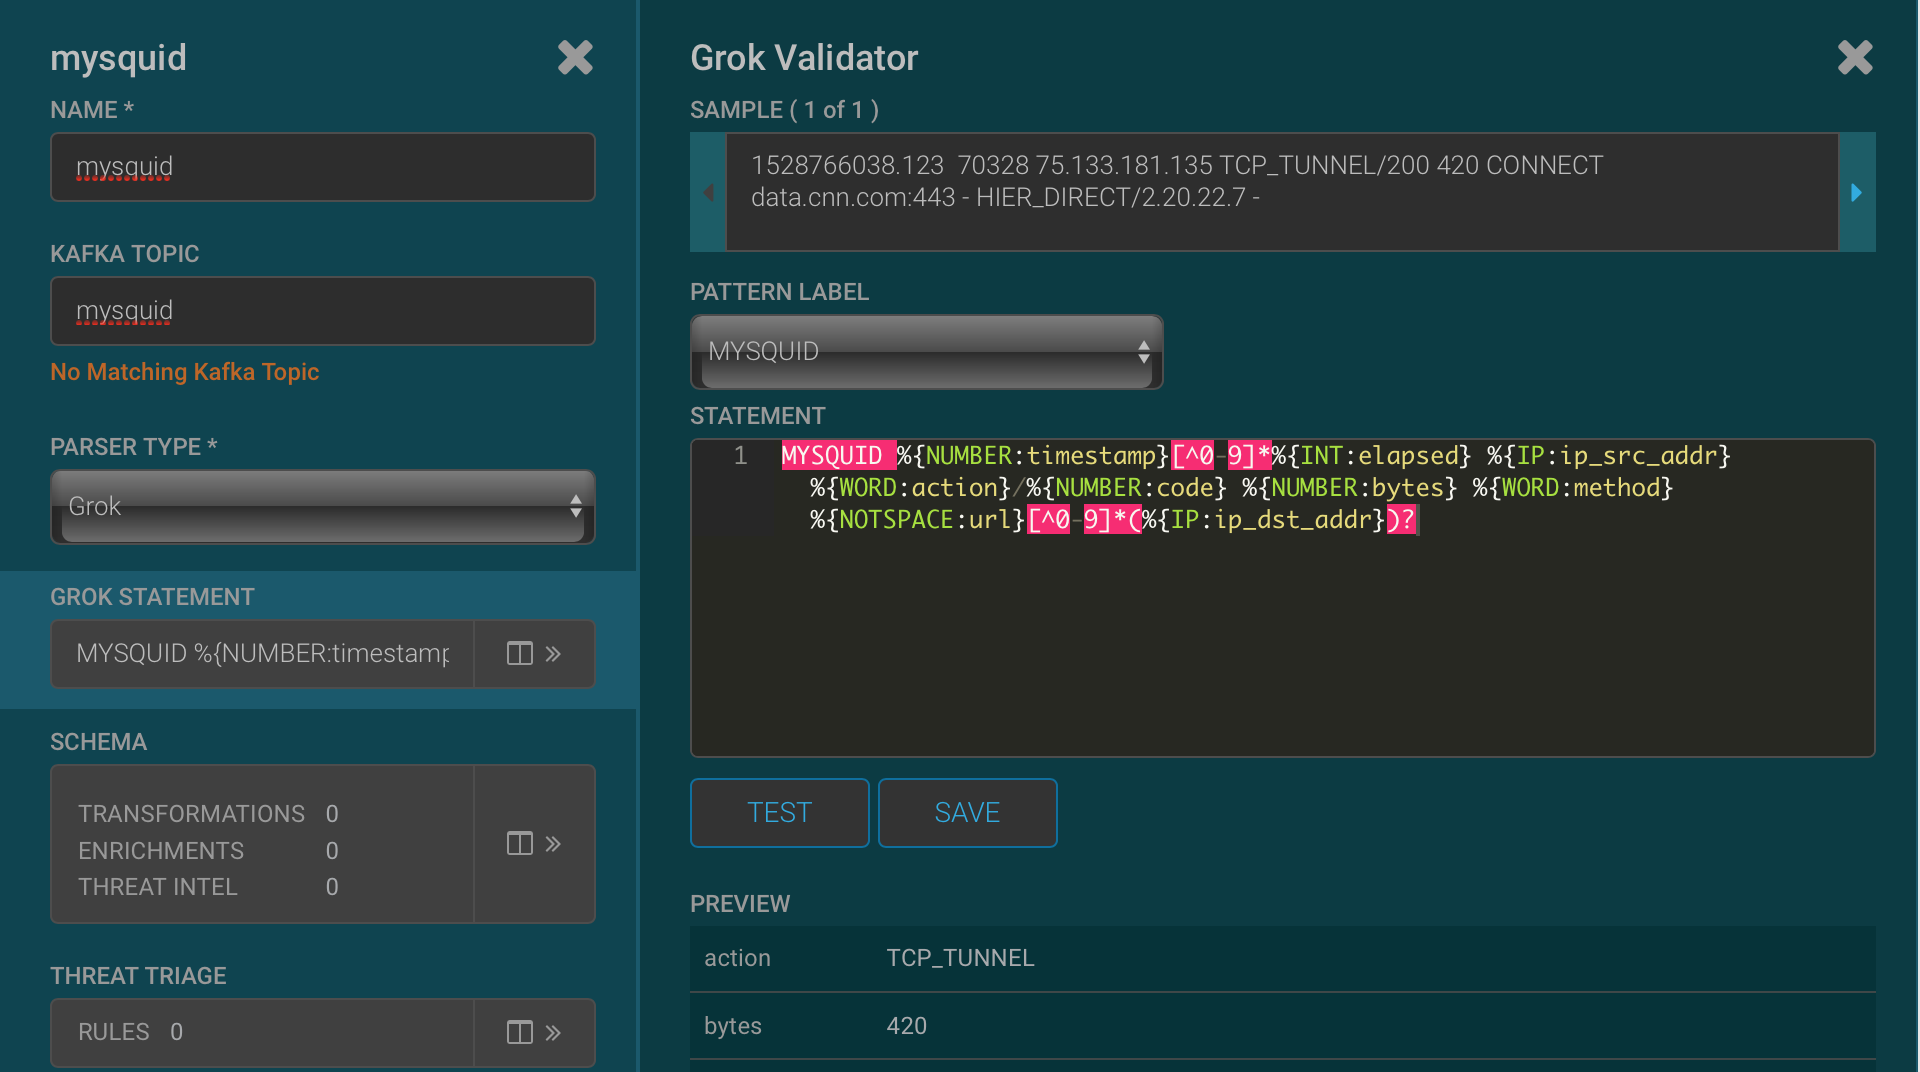
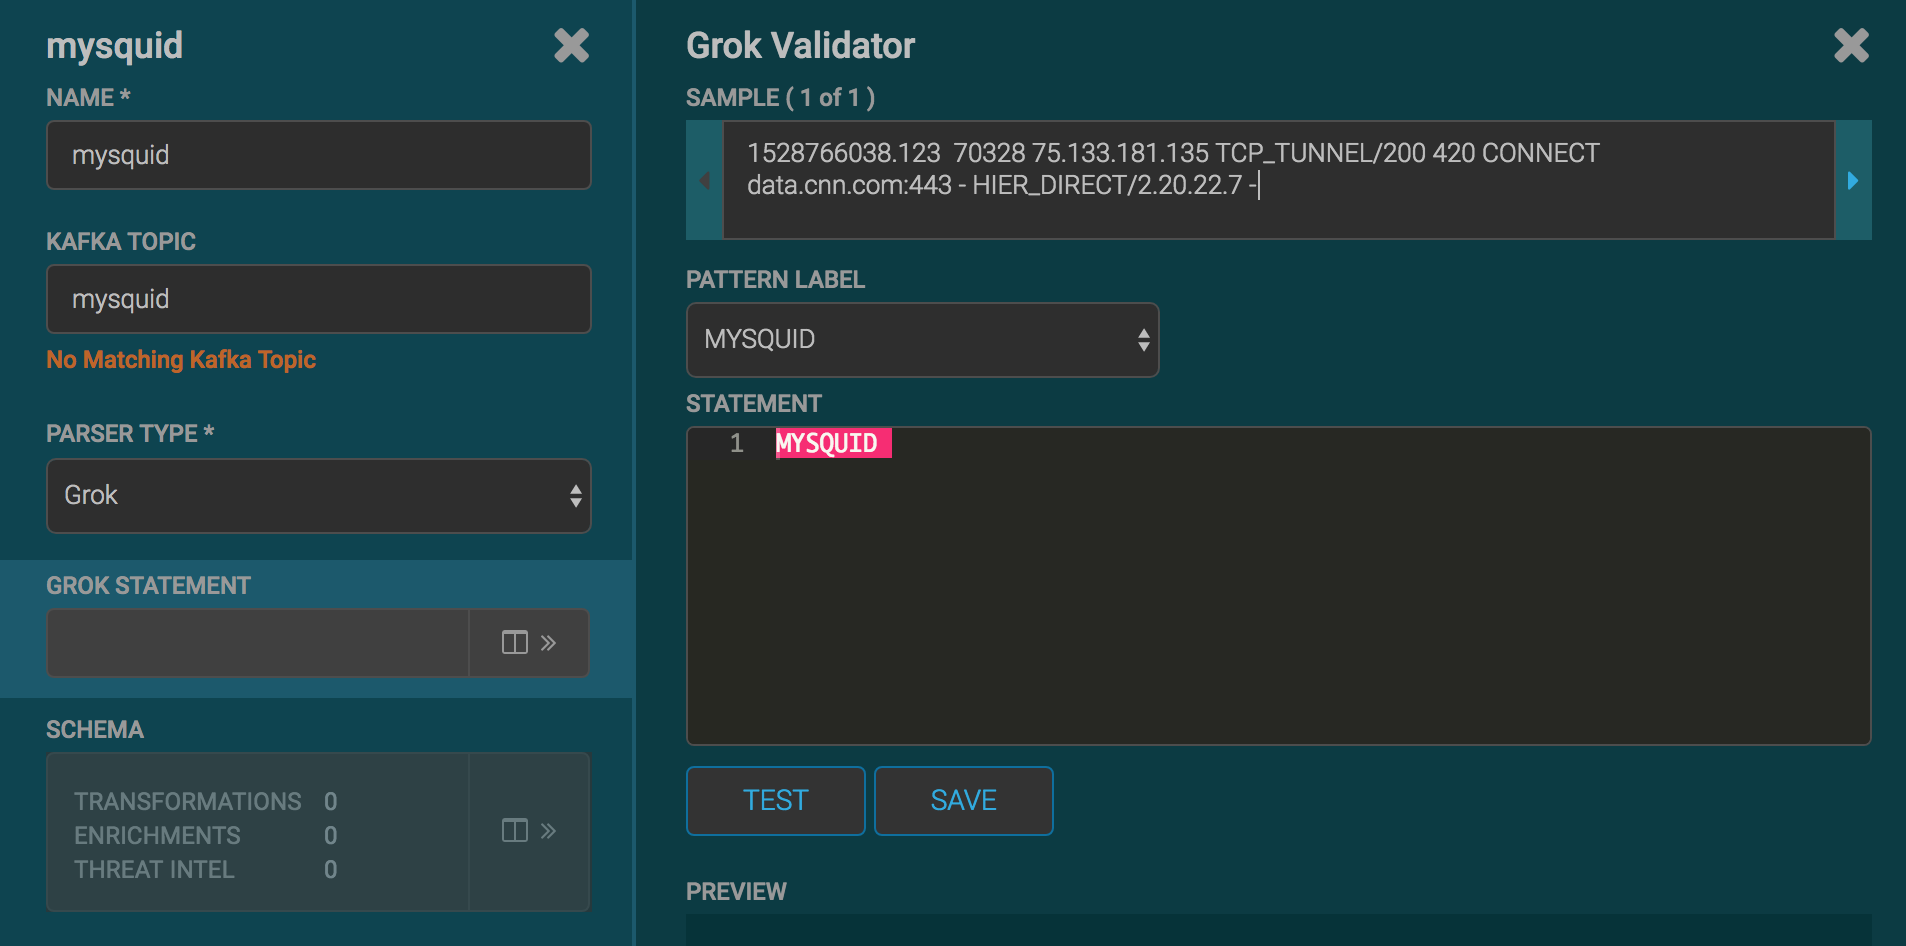
add solr to parsing lab change order of grok setup steps remove unused build_single scripts copy solr templates to the hcp schema directory in build_single

diff --git a/02_ParsingSquid/README.md b/02_ParsingSquid/README.md
@@ -54,15 +54,7 @@ Now we will build a mysquid sensor from scratch using a grok parser.
 Don't worry if you see the "No Matching Kafka Topic", the Kafka Topic will be created automatically on save.  
 <img src="images/mysquid_create_sensor.png" width="35%" height="35%" title="Create My Squid Sensor">
 
-4. Click to expand the Grok Statement.   Copy and paste the grok expression below to the right of the MYSQUID grok expression name:
-
-```
-%{NUMBER:timestamp}[^0-9]*%{INT:elapsed} %{IP:ip_src_addr} %{WORD:action}/%{NUMBER:code} %{NUMBER:bytes} %{WORD:method} %{NOTSPACE:url}[^0-9]*(%{IP:ip_dst_addr})?
-```
-![My Squid Sensor](images/mysquid_grok.png)
-
-
-5. Paste the sample squid raw log entry below into the Sample field and click Test. (If the Test button doesn't become active after the paste, make sure you focus on the STATEMENT field once). The Preview section will update with the fields parsed from the raw log.
+5. Click to expand the Grok Statement.  Paste the sample squid raw log entry below into the Sample field. 
 
 ```
 1528766038.123  70328 75.133.181.135 TCP_TUNNEL/200 420 CONNECT data.cnn.com:443 - HIER_DIRECT/2.20.22.7 -
@@ -70,8 +62,19 @@ Don't worry if you see the "No Matching Kafka Topic", the Kafka Topic will be cr
 
 ![My Squid With Sample](images/mysquid_grok_sample.png)
 
+4. Copy and paste the grok expression below to the right of the MYSQUID grok expression name:
+
+```
+%{NUMBER:timestamp}[^0-9]*%{INT:elapsed} %{IP:ip_src_addr} %{WORD:action}/%{NUMBER:code} %{NUMBER:bytes} %{WORD:method} %{NOTSPACE:url}[^0-9]*(%{IP:ip_dst_addr})?
+```
+
+5. Press the Test button. The Preview section will update with the fields parsed from the raw log.  If there is an error and the preview does not appear, verify the sample and grok expression field values.   Adjust the sample or grok expression field values so the preview appears.
+
+![My Squid Sensor](images/mysquid_grok.png)
+
 6. Click Save.
-7. Verify that sensor name and topic name are "mysquid" with NO extra spaces or special characters.  Click Save on the mysquid sensor.
+7. Verify that sensor name and topic name are "mysquid" with NO extra spaces or special characters.  
+7. Click Save on the mysquid sensor.
 7. The mysquid sensor appears in the management UI.  Click on the pencil icon to edit the mysquid sensor.  The mysquid configuration opens.
 9. Scroll down to the Parser Config section.   
 10.  In the enter field point, enter timestampField.
@@ -81,7 +84,40 @@ Don't worry if you see the "No Matching Kafka Topic", the Kafka Topic will be cr
 
 13. Click the Save button.
 ## Installing the mysquid index template
-After events are enriched and triaged, metron stores the events in an index.  The index template specifies how to interpret the metron events and how to index strings using either a keyword or full text search.
+After events are enriched and triaged, metron stores the events in an index.  The index template specifies how to interpret the metron events and how to index strings using either a keyword or full text search.  
+
+Determine the index you are using (Solr or Elastic Search) and follow the instrutions in the corresponding section below.
+
+### Creating a Collection in Solr
+1. SSH into the metron host.   If you are logging in from windows, ssh using putty.
+
+```
+ssh -i <pem file> centos@mobius.local
+```
+2. Run the create_solr_collection command to create a new collection and install the collection schema.  The schema defines the types and search capabilities of each field in the events stored in the index.  
+
+```
+./create_solr_colection.sh mysquid
+``` 
+4. To see the definition of the schema use the more command on the metron host.  Press enter to advance one line.  Press space to advance one page.  To exit the more command enter 'q':
+
+```
+more /usr/hcp/current/metron/config/schema/mysquid/schema.xml
+``` 
+
+5. The solrconfig.xml file defines the configuration of the index.  The solr config does not vary by the index content.  When creating a new index, use the metron solrconfig.xml as is.
+
+```
+more /usr/hcp/current/metron/config/schema/mysquid/solrconfig.xml
+``` 
+
+3. In the browser, open solr collections interface to see the mysquid collection:
+http://mobius.local.localdomain:8983/solr/#/~collections
+ 
+<img src="images/solr_collections.png" width="30%" height="30%" title="Viewing collections in solr">
+
+
+### Creating an index in Elastic Search
 1. Enter the Kibana url in the browser:
 http://mobius.local:5000
 2. Select Dev Tools from the left hand side of the kibana page.  The Dev Tools console is an easy way to interact with the index REST api.  If the Welcome window appears, click the Get to work button.
@@ -303,7 +339,8 @@ PUT _template/mysquid
 
 <img src="images/nifi_input_annotated.png" width="60%" height="60%" title="Mysquid Complete Flow">
 
-17. Open Metron Alerts UI.  In a few minutes the Metron Alerts UI show mysquid events. 
+17. Open Metron Alerts UI.  In a few minutes the Metron Alerts UI show mysquid events. If you don't see event with mysquid source, go to the Metron Configuration UI, stop mysquid and start it again.  It might take a minute or two for events to start flowing.
+ 
 <img src="images/alerts_ui_mysquid.png" width="75%" height="75%" title="Alerts UI with mysquid events">
 
 
